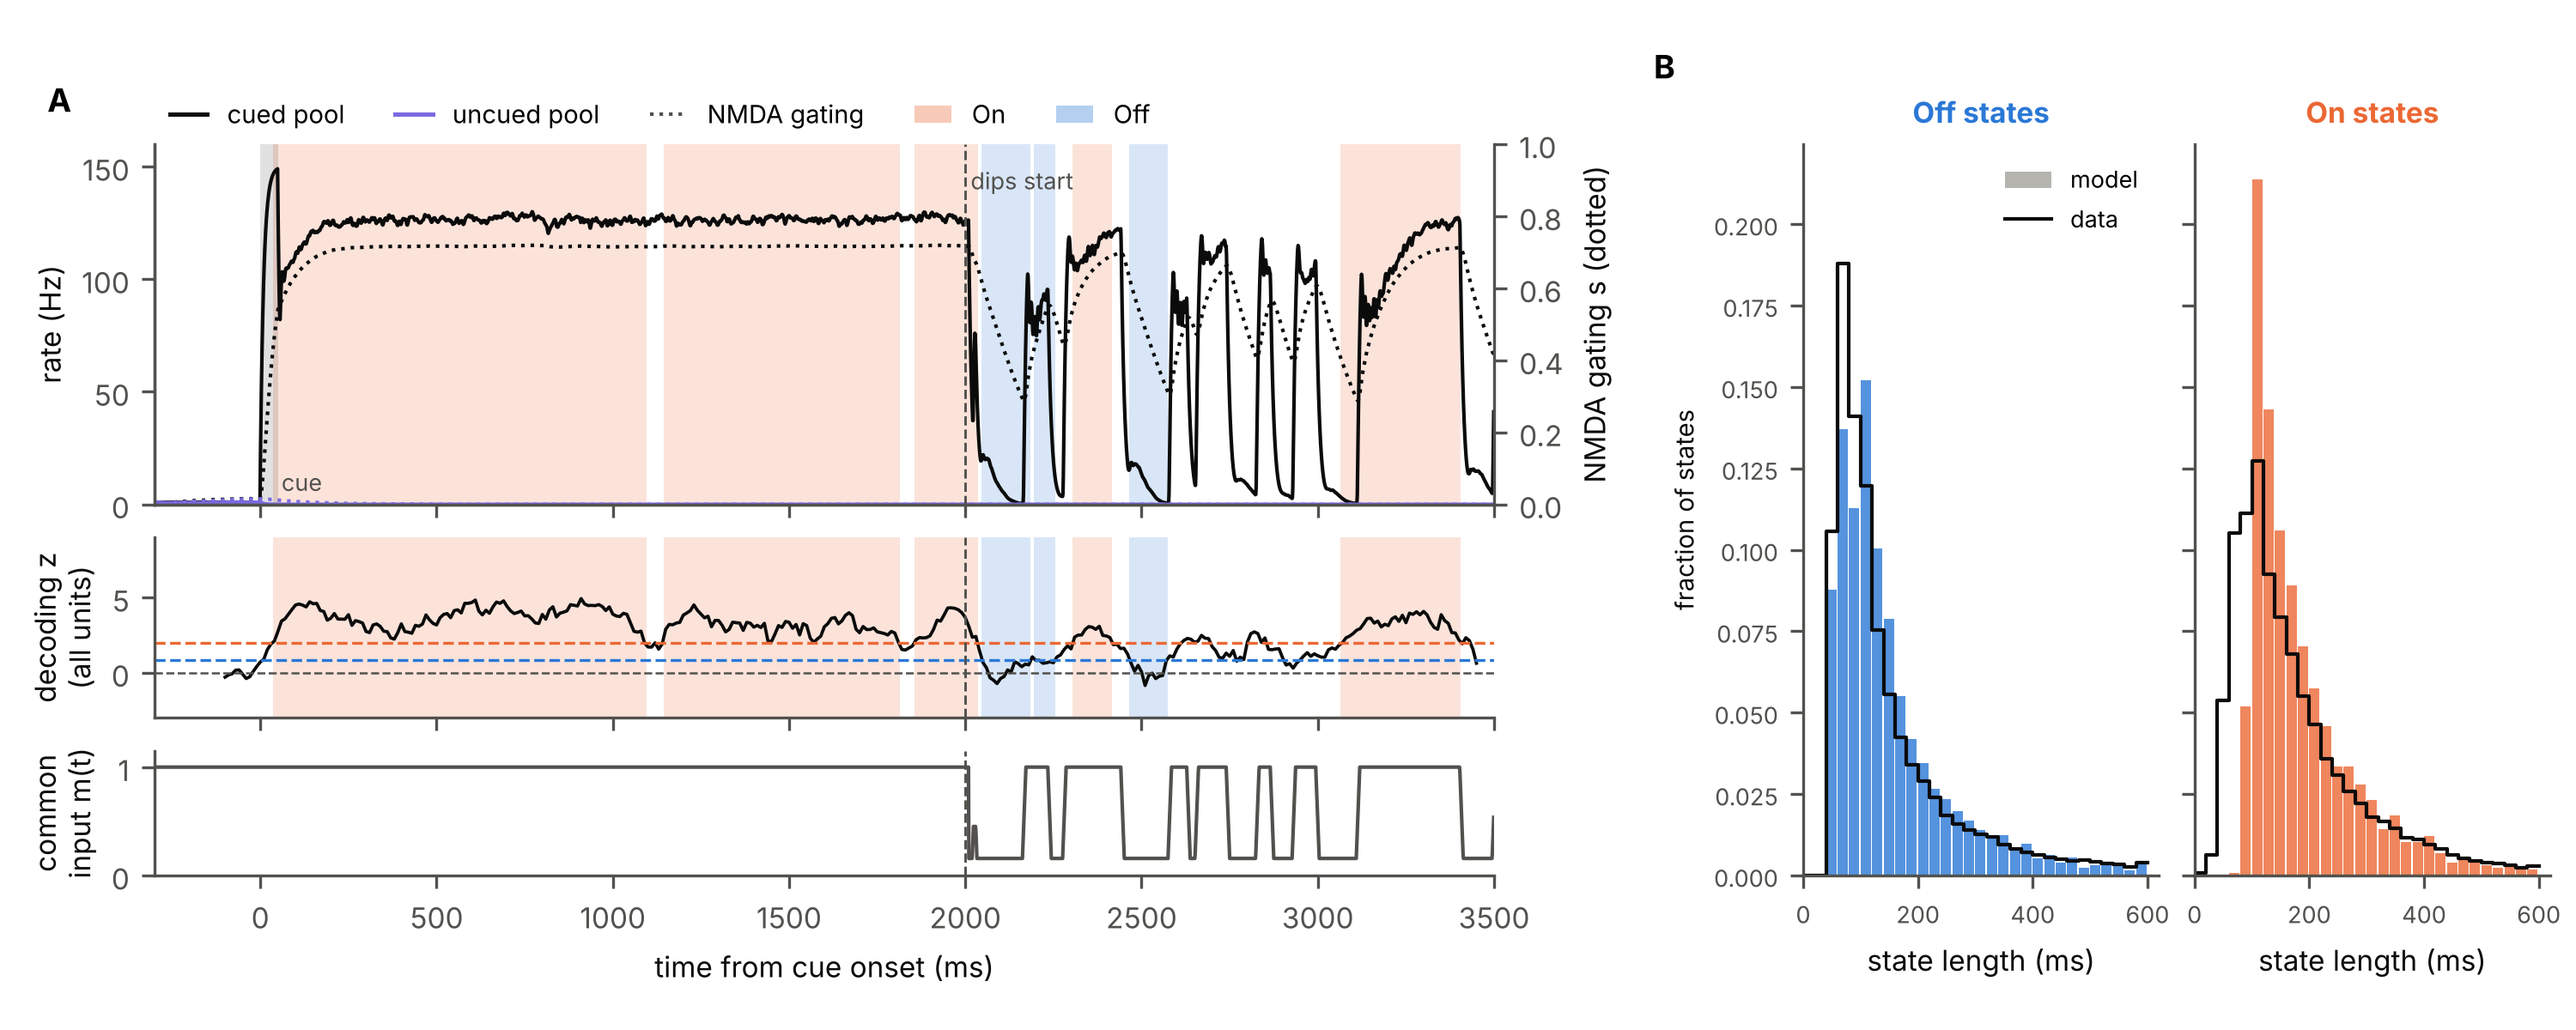
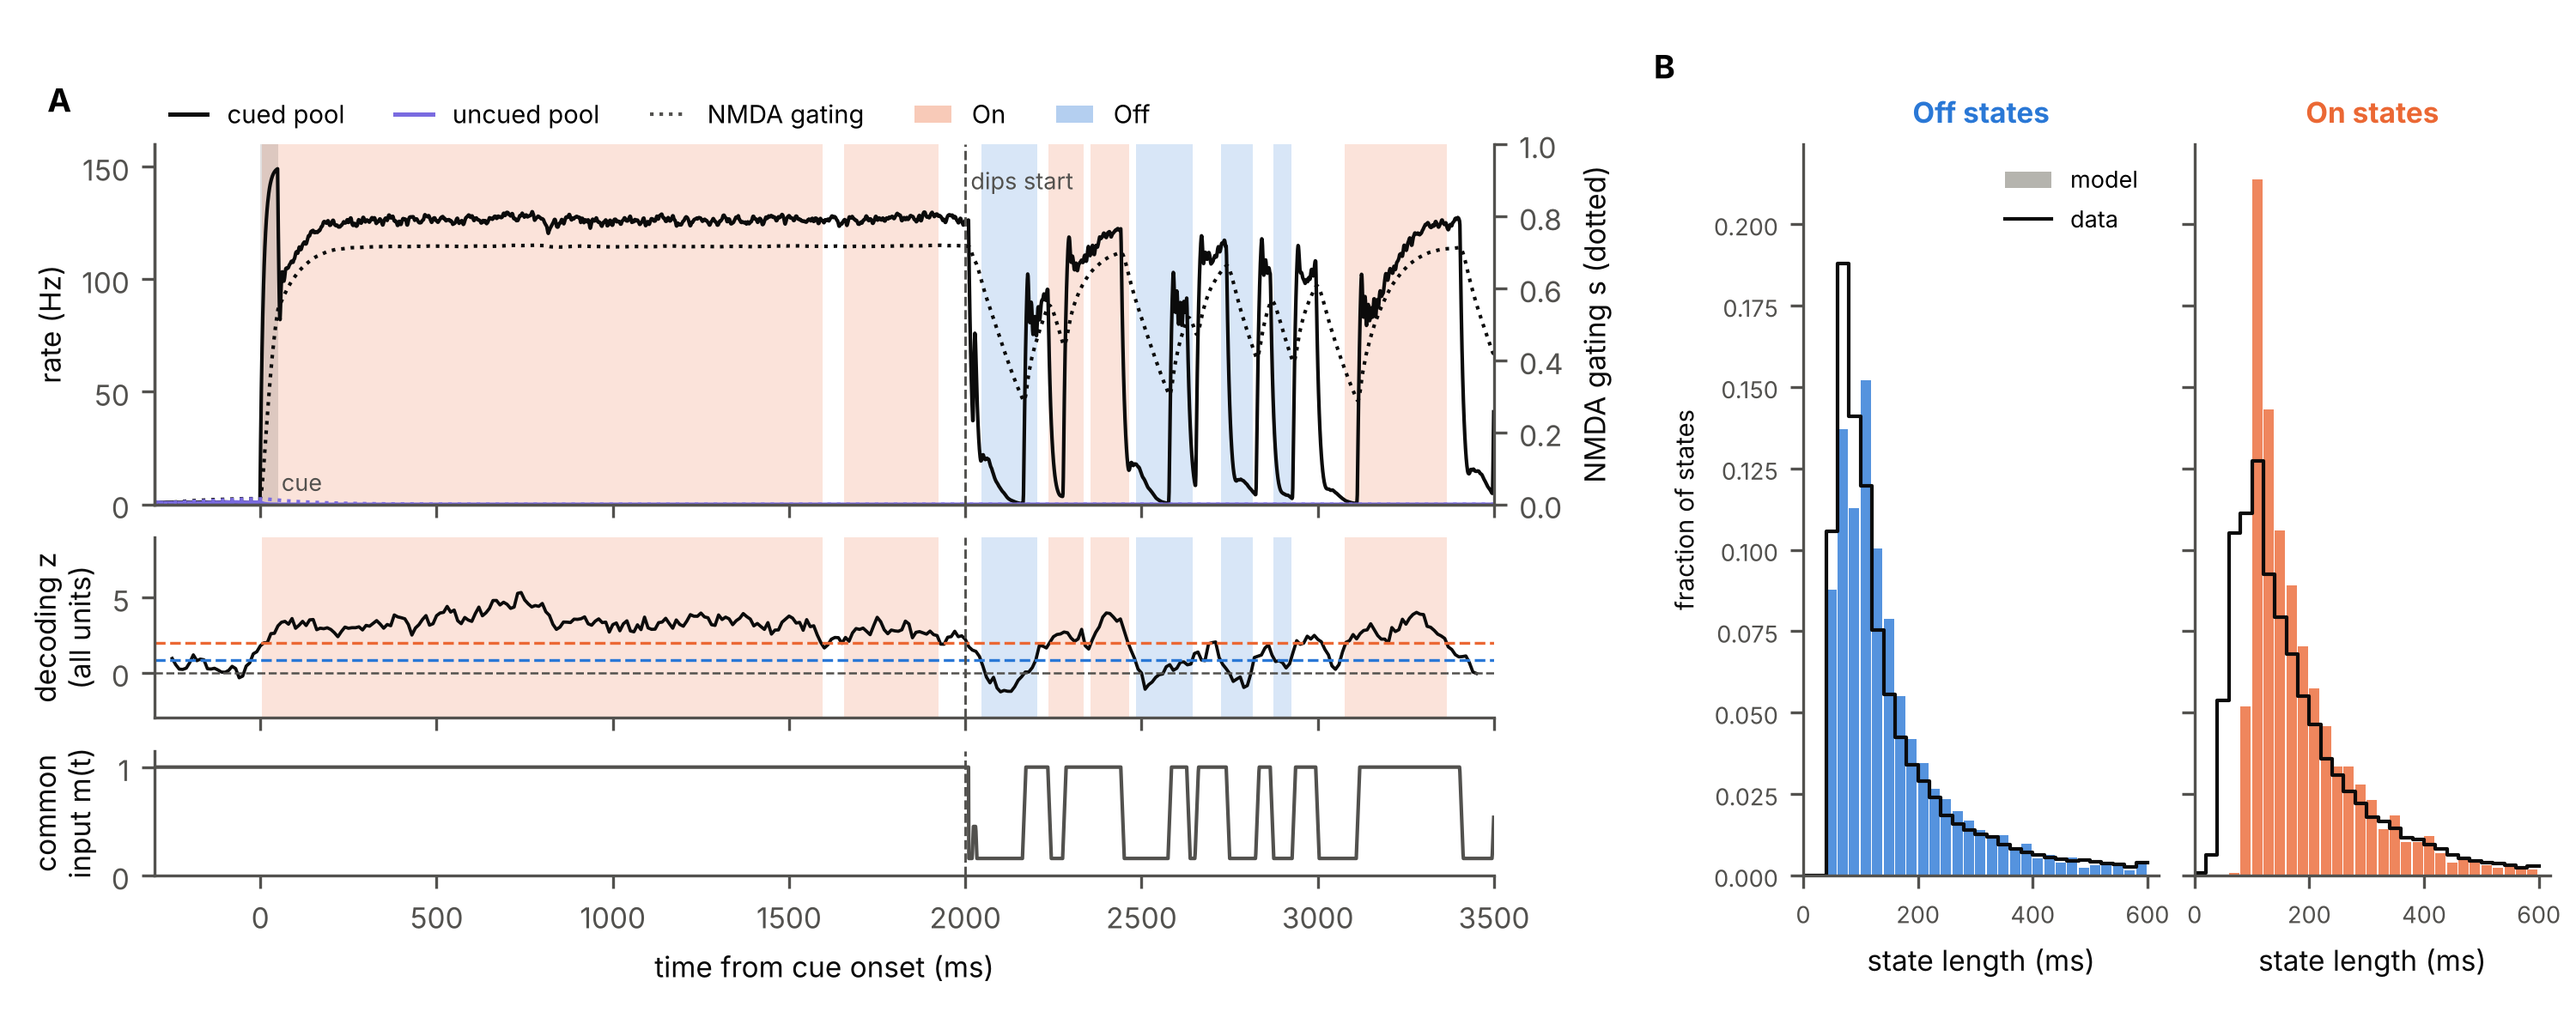
Figure 1: show the decoding trace from 250 ms before cue onset
Claude-Session: https://claude.ai/code/session_01DWA8oLxpZgubPZ4A6kb3Lh

diff --git a/paper_model/readout.py b/paper_model/readout.py
@@ -58,13 +58,13 @@ def data_counts(st, state):
     return inside, inside.sum() + over
 
 
-def rate_diff(sim):
-    """Cued minus uncued pool rate in 100 ms windows every 10 ms; window centres relative to cue onset."""
+def rate_diff(sim, t_from=-100):
+    """Cued minus uncued pool rate in 100 ms windows every 10 ms, centres from t_from ms relative to cue onset."""
     d = np.where(sim['cued'][:, None] == 0, sim['rA'] - sim['rB'], sim['rB'] - sim['rA'])
     c = np.cumsum(np.c_[np.zeros(len(d)), d], axis=1)
     dw = ((c[:, WIN:] - c[:, :-WIN]) / WIN)[:, ::STEP]
     tc = np.arange(dw.shape[1]) * STEP + WIN / 2 - sim['t_cue']
-    keep = tc >= -100
+    keep = tc >= t_from
     return dw[:, keep], tc[keep]
 
 

diff --git a/paper_model/make_figures.py b/paper_model/make_figures.py
@@ -42,7 +42,7 @@ def example_trials(gain, n=300, seed=11):
     m[:, i0:] = M.common_input(n, n_t - i0, dt, p['dip_rate'], p['dip_mean'], p['dip_depth'], p['dip_shape'], rng)
     m[:, i0:i0 + int(10 / dt)] = 1.0          # no dip already running at the switch
     sim = M.simulate(p, np.zeros(n, int), seed=seed + 1, m=m)
-    dw, tz = R.rate_diff(sim)
+    dw, tz = R.rate_diff(sim, t_from=-250)     # include the pre-cue period (pure read-out noise)
     z = gain * dw + R.noise(dw.shape, R.RHO[FIG1_SET[0]], rng)
     thr = R.null_threshold(dw.shape, R.RHO[FIG1_SET[0]], rng)
     return sim, tz, z, R.label(z, tz >= 0, thr)
